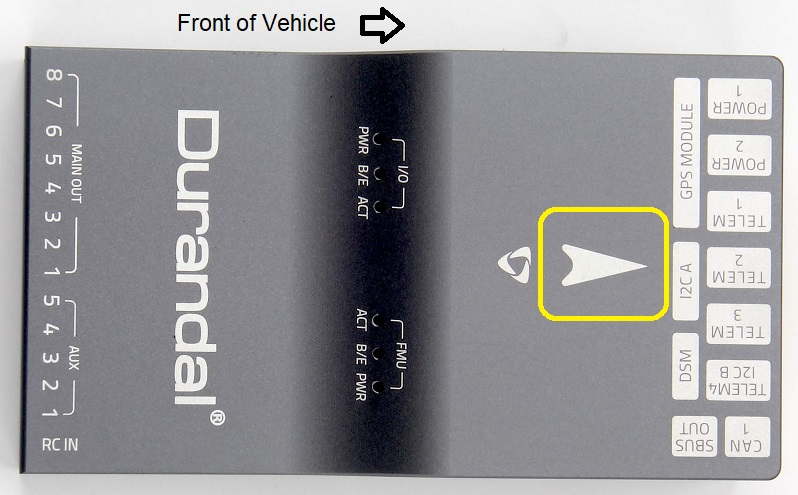
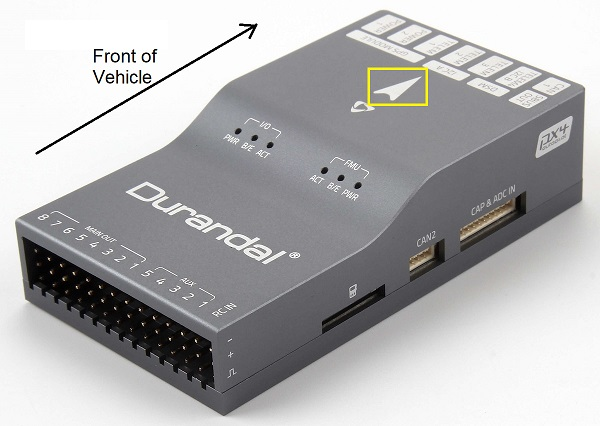
Fix orient. image

diff --git a/en/flight_controller/durandal.md b/en/flight_controller/durandal.md
@@ -78,9 +78,9 @@ For more information see: [Durandal Technical Data Sheet](http://www.holybro.com
 Order from [Holybro](https://shop.holybro.com/durandalbeta_p1189.html).
 
 
-## Connectors
+## Connections {#connections}
 
-The connectors are shown below (and below in the [pinouts section](#pinouts)).
+The locations of ports/connections are shown here (and below in the [pinouts section](#pinouts)).
 
 ### Top
 ![Durandal - Top Pinouts (Schematic)](../../assets/flight_controller/durandal/durandal_pinouts_top.jpg)
